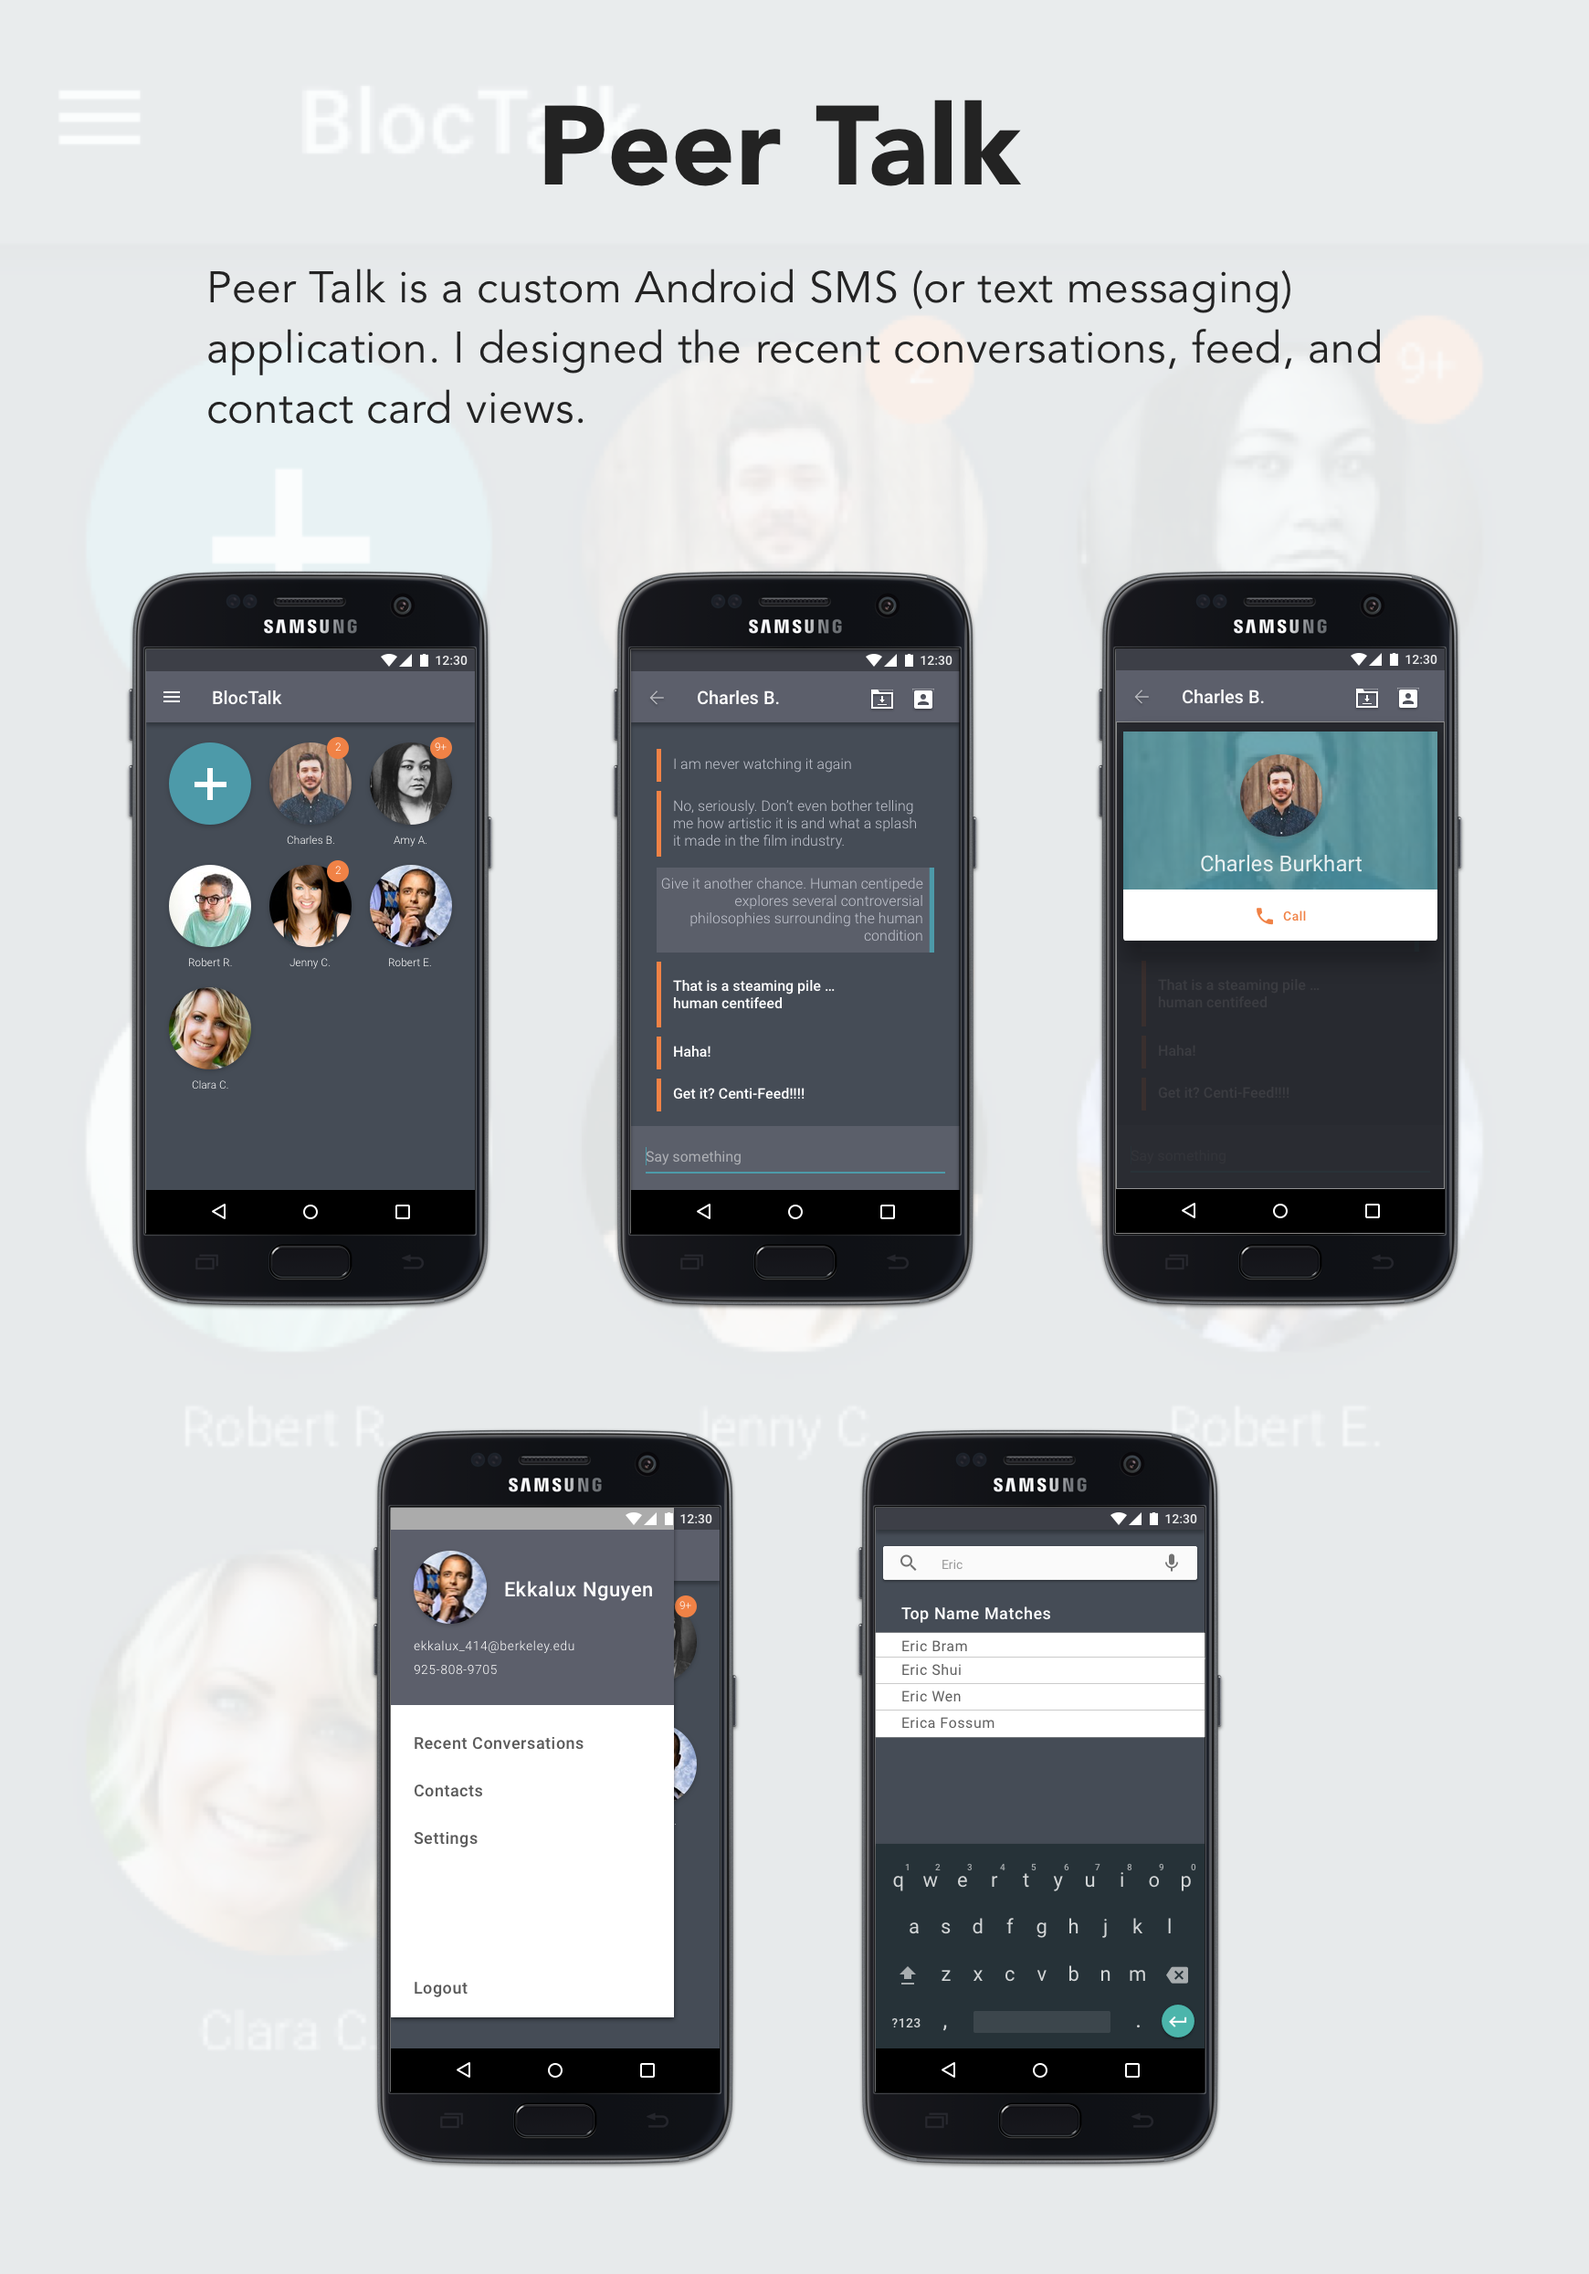
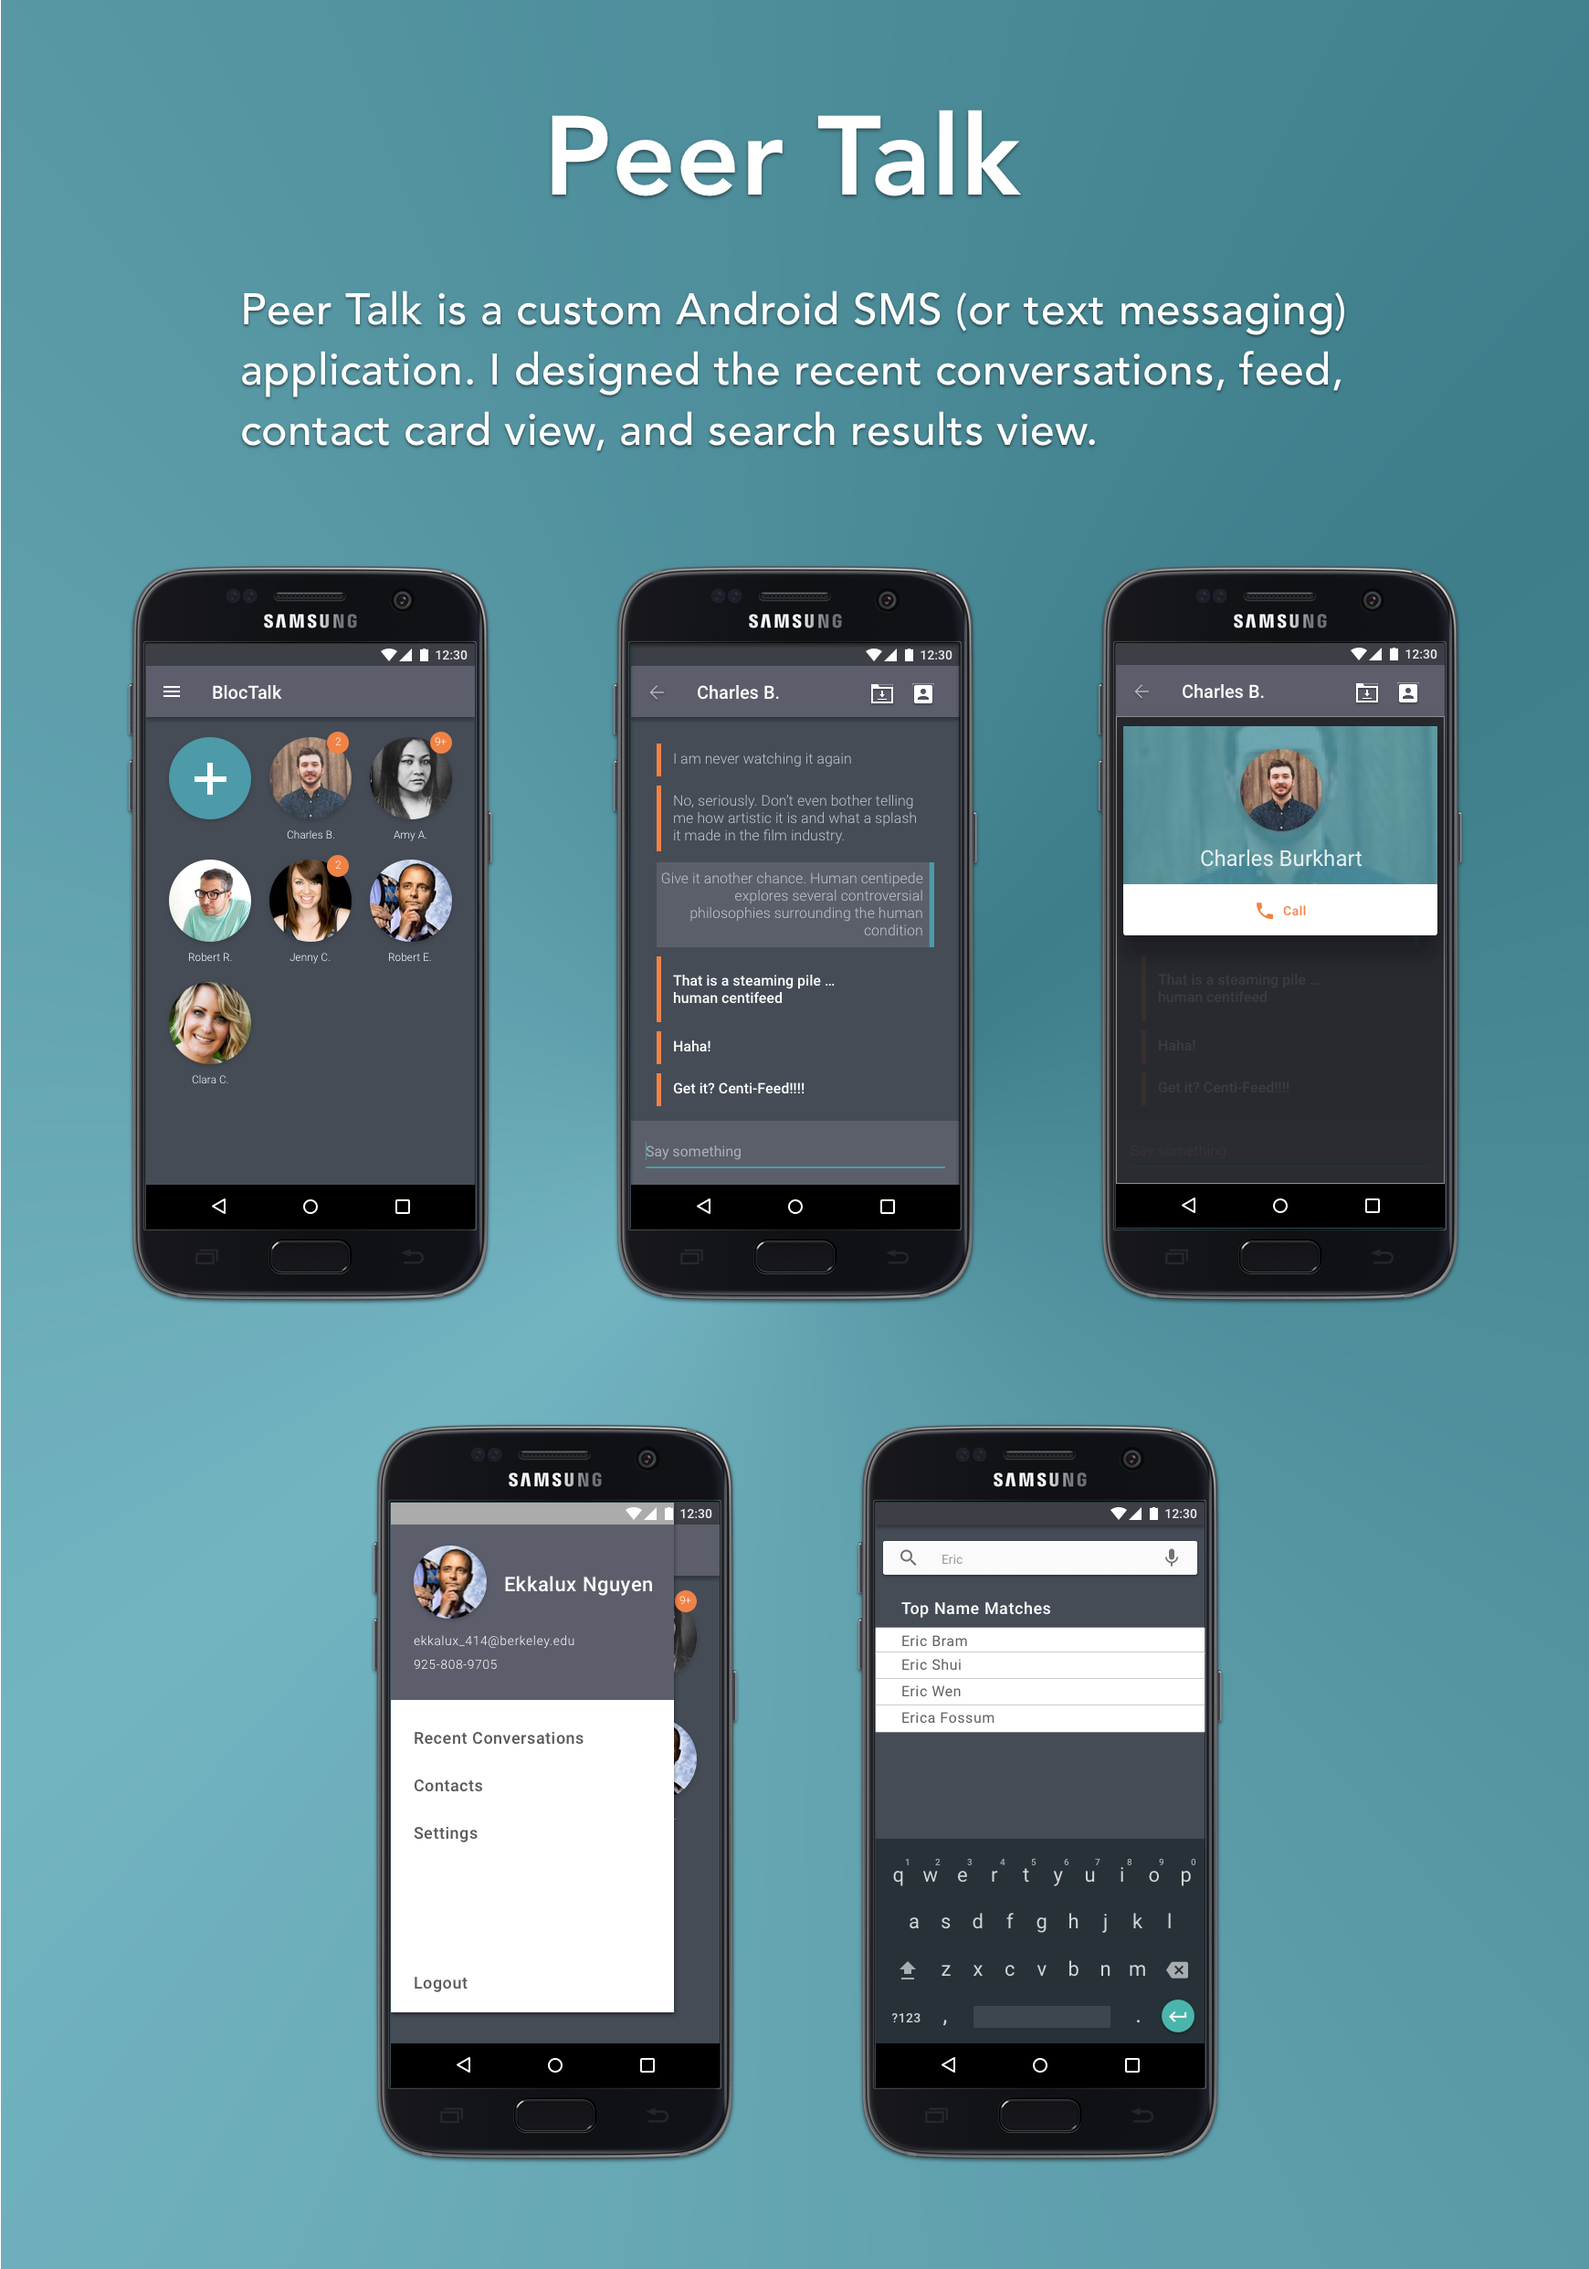
added more projects 3

diff --git a/css/style.css b/css/style.css
@@ -13,7 +13,16 @@ hr {
   border-top:2px solid #1A505A;
   margin-top: -35px;
   margin-bottom: 40px;
-  width: 200px;
+  width: 150px;
+}
+
+#hr_about {
+  height: 0;
+  border: 0;
+  border-top:2px solid white;
+  margin-top: -35px;
+  margin-bottom: 40px;
+  width: 150px;
 }
 
 /* NAVIGATION BAR */
@@ -265,7 +274,7 @@ hr {
 
 .simplebox_container {
   clear: both;
-  padding-top: 100px;
+  padding-top: 80px;
 }
 
 .simplebox_text {
@@ -336,7 +345,7 @@ hr {
 
 .more_projects {
   clear: both;
-  padding-top: 100px;
+  padding-top: 80px;
 }
 
 .more_projects img {
@@ -358,7 +367,7 @@ hr {
   letter-spacing: 5;
   font-size: 42px;
   font-family: helvetica, sans-serif;
-  color: #7D9DBD;
+  color: #1A505A;
   font-weight: 600;
 }
 
@@ -395,7 +404,7 @@ hr {
   font-size: 20px;
   width: 150px;
   height: 53px;
-  border: solid #7D9DBD 2px;
+  border: solid #1A505A 2px;
   text-decoration: none;
   background: none;
   margin-top: 30px;
@@ -424,6 +433,7 @@ hr {
   .simplebox_text {
     width: 100%;
     margin-top: 0;
+    margin-bottom: 40px;
   }
   .more_projects img {
     width: 100%;
@@ -431,6 +441,7 @@ hr {
   .more_projects_text {
     width: 100%;
     margin-top: 0;
+    margin-bottom: 40px;
   }
 }
 
@@ -455,6 +466,7 @@ hr {
   .simplebox_text {
     width: 100%;
     margin-top: 0;
+    margin-bottom: 40px;
   }
   .more_projects img {
     width: 60%;
@@ -463,10 +475,10 @@ hr {
   .more_projects_text {
     width: 100%;
     margin-top: 0;
+    margin-bottom: 40px;
   }
 
 }
-
 
 /* PROJECTS */
 
@@ -537,7 +549,7 @@ hr {
 }
 .left_footer {
   float: left;
-  padding-left: 50px;
+  padding-left: 100px;
   color: white;
   font-family: sans-serif;
   font-size: 14px;
@@ -548,10 +560,12 @@ hr {
   color: white;
   letter-spacing: 3px;
   float: right;
-  margin-right: 20px;
+  margin-right: 100px;
 }
 .fa {
   color: white;
+  cursor: pointer;
+  letter-spacing: 5px;
 }
 
 @media (max-width: 480px) {

diff --git a/css/more_projects.css b/css/more_projects.css
@@ -27,14 +27,14 @@ html, body {
 
 .hero_container {
   position: absolute;
-  top: 300px;
+  top: 280px;
   left: 0;
   right: 0;
 }
 
 .hero_container h1 {
   letter-spacing: 5;
-  font-size: 48px;
+  font-size: 62px;
   font-family: helvetica, sans-serif;
   text-align: center;
   color: white;
@@ -58,12 +58,19 @@ html, body {
   text-align: center;
 }
 
-.more_projects_container img {
+.more_projects_container{
   display: inline-block;
+  width: 60%;
+  margin-left: 20px;
+}
+
+#peertalk {
   background-size: cover;
   background-repeat: no-repeat;
   width: 44.9%;
   text-align: center;
-  margin-left: 20px;
-
+  cursor: pointer;
+  transition: 0.3s;
 }
+
+#peertalk:hover {opacity: 0.7;}

diff --git a/index.html b/index.html
@@ -96,7 +96,7 @@
 
 <section class="about">
   <div class="about_container">
-    <h1> ABOUT </h1> <hr>
+    <h1> ABOUT </h1> <hr id="hr_about"> </hr>
     <p>Hello! I’m Ekkalux or Lux for short. I'm a UX/UI Designer based in San Francisco
        passionate about creating simple yet user-centric design experience. I have
        an affinity for creating products that bridge the gap between technology, education, and health.

diff --git a/more_projects.html b/more_projects.html
@@ -42,8 +42,7 @@
 
 <section class="more_projects">
   <div class="more_projects_container">
-    <img src="images/more_projects/peertalk.png">
-    <img src="images/more_projects/peertalk.png">
+    <img id="peertalk" src="images/more_projects/peertalk.png">
   </div>
 </section>
 
